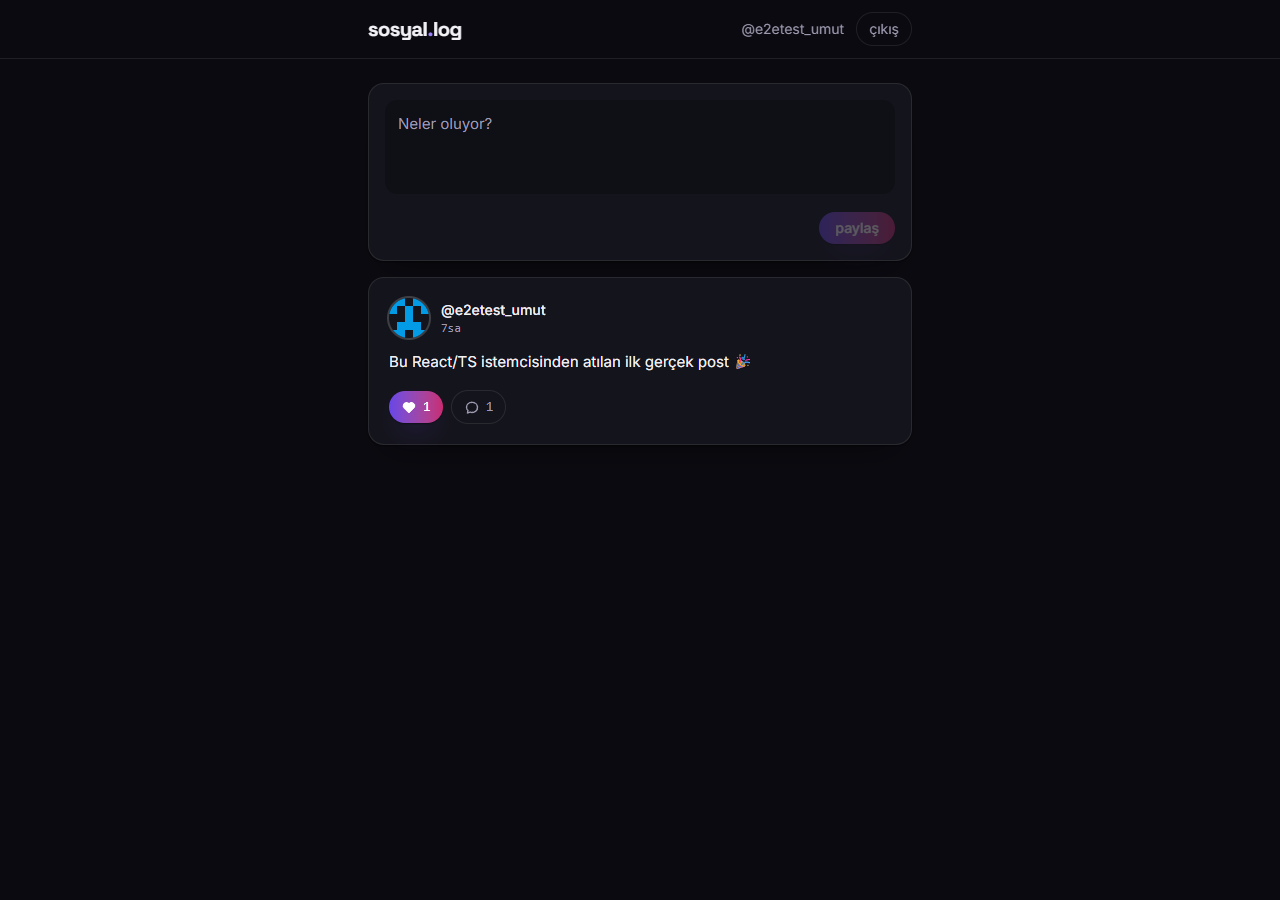
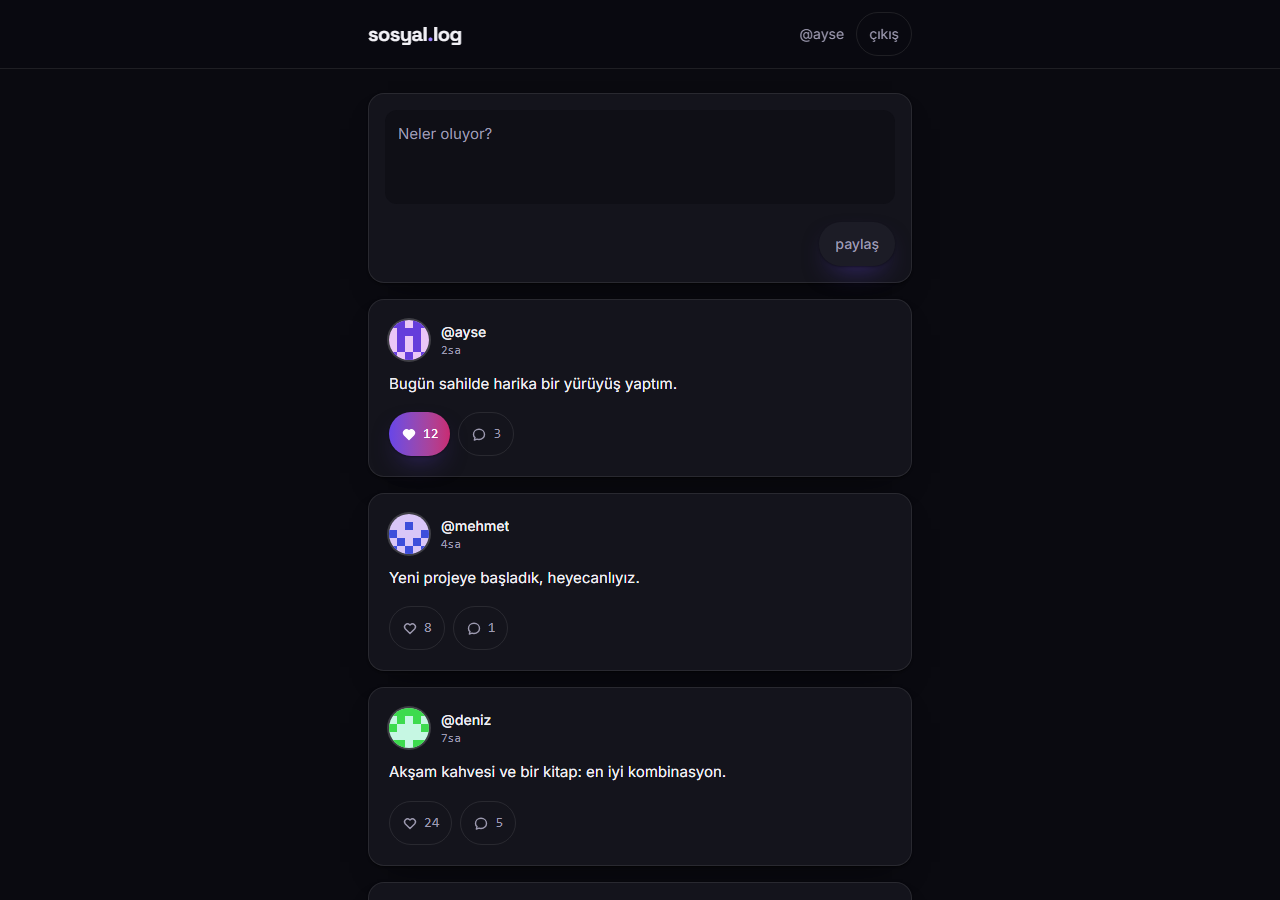
docs: ekran goruntuleri kurgusal ornek verilerle yenilendi

diff --git a/README.md b/README.md
@@ -8,6 +8,8 @@ sosyal.log, [Sosyal-Medya-Web](https://github.com/UmutErayAltay/Sosyal-Medya-Web
 
 ## Görseller
 
+Aşağıdaki ekran görüntüleri kurgusal örnek verilerle çekilmiştir; gerçek kullanıcı, hesap veya gönderi içermez.
+
 ![Akış görünümü](docs/screenshots/feed-desktop.png)
 
 ![Profil görünümü](docs/screenshots/profile-desktop.png)

diff --git a/README.en.md b/README.en.md
@@ -8,6 +8,8 @@ sosyal.log is a React + TypeScript client wired to the REST API of the [Sosyal-M
 
 ## Screenshots
 
+The screenshots below were captured with fictional sample data; they contain no real users, accounts, or posts.
+
 ![Feed view](docs/screenshots/feed-desktop.png)
 
 ![Profile view](docs/screenshots/profile-desktop.png)
